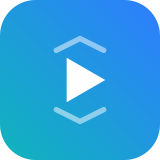
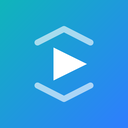
Use the real Play Store artwork for the app page
Replaces the plain phone screenshots with the styled Play listing assets:
the 1024x500 feature graphic as the banner, the seven captioned phone frames,
the 512px app icon, and two 10-inch tablet frames.

Everything is converted to WebP at display size — the whole gallery is 212 KB
instead of ~12 MB of source PNGs, so the page loads instantly.

Also folds in the download quality picker (a styled frame existed for it) and
adds a short tablet section.

Claude-Session: https://claude.ai/code/session_01Rd4wjgU9LcgQMjR3yeLKaY

diff --git a/README.md b/README.md
@@ -1,11 +1,11 @@
 <div align="center">
 
-<img src="screenshots/icon.png" width="112" alt="Scrollr">
+<img src="screenshots/banner.webp" alt="Scrollr — Browse · Watch · Download" width="100%">
 
 # Scrollr
 
-**A video-first Android browser.** Browse, find every video on a page,
-watch them as a swipeable reel, and save what you want.
+**A video-first Android browser.** Browse any site, find every video on the page,
+watch them as a swipeable reel, and download what you want.
 
 [![Get it on Google Play](https://img.shields.io/badge/Google_Play-Install-2E7DFF?style=for-the-badge&logo=googleplay&logoColor=white)](https://play.google.com/store/apps/details?id=com.scrollr)
 [![Join the testers group](https://img.shields.io/badge/Testers_Group-Join_first-0FB5BA?style=for-the-badge&logo=google&logoColor=white)](https://groups.google.com/g/scrollr)
@@ -14,90 +14,107 @@ watch them as a swipeable reel, and save what you want.
 
 ---
 
-## Scrollr is currently in closed testing
+## Scrollr is in closed testing
 
-The app is not public yet. To install it you have to be on the tester list, and
+The app isn't public yet. To install it you have to be on the tester list, and
 **joining the Google Group is what puts you on it.**
 
 > ### Two steps, in this order
 >
-> **1. Join the group → <https://groups.google.com/g/scrollr>**
-> Click **Join group**. Use the same Google account you use on your phone's Play Store.
+> **1 — Join the group:** <https://groups.google.com/g/scrollr>
+> Click **Join group**, using the same Google account your phone's Play Store uses.
 >
-> **2. Then open the Play Store link → <https://play.google.com/store/apps/details?id=com.scrollr>**
+> **2 — Then open Play:** <https://play.google.com/store/apps/details?id=com.scrollr>
 > Install as normal.
 
-If step 2 says the app **isn't available** or shows a 404, it is almost always one of these:
+If Play says the app isn't available, it's almost always one of these:
 
 | What you see | What it means |
 |---|---|
 | "Item not found" / 404 | You opened the Play link before joining the group |
-| Play shows a different account | Switch to the account that joined the group |
-| Still not showing after joining | Google can take a little while to sync — give it up to a few hours |
+| Play is on a different account | Switch to the account that joined the group |
+| Still missing after joining | Google can take a while to sync — give it a few hours |
+
+---
+
+## A look at it
+
+<div align="center">
+
+<img src="screenshots/02_browse.webp" width="240" alt="Browse anything — a full, fast web browser built in">
+<img src="screenshots/04_found.webp" width="240" alt="Finds every video — Scrollr detects all videos on any page">
+<img src="screenshots/01_reels.webp" width="240" alt="Watch reels — endless short videos in one smooth feed">
+
+<img src="screenshots/05_download.webp" width="240" alt="Download fast — save any video at blazing speed">
+<img src="screenshots/06_quality.webp" width="240" alt="Pick your quality before downloading">
+<img src="screenshots/03_dark.webp" width="240" alt="Dark mode, always — easy on your eyes day or night">
+
+</div>
 
 ---
 
 ## What it does
 
 Most browsers treat video as just another element on the page. Scrollr treats it as
-the point. It watches every page you open, collects the videos it finds, and gives you
-somewhere to actually watch them.
+the point.
 
-<div align="center">
-
-| Browse | Found | Library | Options |
-|:--:|:--:|:--:|:--:|
-| <img src="screenshots/01-browser.jpg" width="200"> | <img src="screenshots/02-found.jpg" width="200"> | <img src="screenshots/03-history.jpg" width="200"> | <img src="screenshots/04-menu.jpg" width="200"> |
-
-</div>
-
-### Find videos automatically
-Pages are scanned as you browse, and anything playable is collected into **Found** —
-per tab, so results from different sites never mix. Streams that a page hides behind its
-own player get resolved too. There is an **Extract All** button when you want to sweep a
-listing page in one go, and a floating button that catches media the page loads quietly
-in the background.
+### Finds every video, by itself
+Pages are scanned as you browse and anything playable lands in **Found** — kept per tab,
+so results from different sites never mix. Streams a page hides behind its own player get
+resolved too. **Extract All** sweeps a whole listing page at once, and a floating button
+catches media the page loads quietly in the background.
 
 ### Watch them as a reel
-**Reel** turns everything a tab found into a vertical, swipeable feed. Videos buffer
-ahead so swiping is instant.
 
-- **Hold anywhere** on the video for 2× speed, release to go back to normal
-- **Double-tap** the left or right side to jump 10 seconds
+<img src="screenshots/07_fullscreen.webp" width="220" align="right" alt="Full-screen reels — swipe through a smooth vertical feed">
+
+**Reel** turns a tab's finds into a full-screen vertical feed that buffers ahead, so
+swiping is instant.
+
+- **Hold anywhere** for 2× speed — release to go back to normal
+- **Double-tap** either side to jump 10 seconds
 - **Skip watched** hides anything you've already seen
 - **Shuffle all tabs** mixes every tab's finds into one feed
-- **Quality**: Auto, High (1080p), Standard (720p), or Data saver — a ceiling, never a
+- **Quality**: Auto, High (1080p), Standard (720p) or Data saver — a ceiling, never a
   demand, so a video that only exists in 4K still plays on Data saver
 
-### Download and keep
-Save direct MP4, HLS and DASH streams, with a quality picker when a stream offers several.
-The downloader splits a file across **up to 32 parallel parts**, so large videos come down
-fast, and it keeps running in the background.
+<br clear="right">
 
-### An offline reel too
-Downloads get their own vertical swipe feed, exactly like the online one — so everything
-you've saved is watchable in the same way, with no other app involved.
+### Download fast, watch offline
+Save direct MP4, HLS and DASH streams, choosing the resolution when a video offers
+several. The downloader splits each file across **up to 32 parallel parts**, so large
+videos come down quickly, and it keeps going in the background.
 
-### Block ads properly
-A full Adblock Plus / uBlock-style network engine, not a host blocklist — resource types,
-first vs. third party, exception rules and per-site scoping are all honoured. It runs
-**114,000+ active rules** from EasyList, EasyPrivacy, AdGuard Mobile, Fanboy and malware
-lists, and you can see exactly what is loaded under **Settings ▸ Ad-block filters**.
+Your downloads then get **their own vertical reel** — everything you've saved is
+watchable the same way, with no other app involved.
+
+### Blocks ads properly
+A full Adblock Plus / uBlock-style network engine, not just a host blocklist: resource
+types, first vs. third party, exception rules and per-site scoping are all honoured. It
+runs **114,000+ active rules** from EasyList, EasyPrivacy, AdGuard Mobile, Fanboy and
+malware lists, and you can see exactly what's loaded under **Settings ▸ Ad-block filters**.
 
 ### Browse the way you want
 - **Tabs**, with a separate incognito space that keeps nothing when you leave it
-- **Search engine per mode** — 10 presets, or paste any search URL. Normal and incognito
-  keep their own, so choosing Google for browsing doesn't drag it into incognito
+- **Search engine per mode** — 10 presets or any search URL you paste. Normal and
+  incognito keep their own, so choosing Google for browsing doesn't drag it into incognito
 - **Bookmarks and history**, swipe to delete with undo
 - **Dark and light**, plus an AMOLED-black incognito look
 - Desktop site, HTTPS-only, find in page, clear on exit, quick tab switch
+
+### Built for tablets too
+
+<div align="center">
+<img src="screenshots/tablet_reels.webp" width="380" alt="Scrollr reel view on a 10-inch tablet">
+<img src="screenshots/tablet_found.webp" width="380" alt="Scrollr Found screen on a 10-inch tablet">
+</div>
 
 ---
 
 ## Privacy
 
-- **No account. No sign-up. No analytics, no tracking, no telemetry.**
-- Bookmarks, history, downloads and settings stay on your device.
+- **No account, no sign-up, no analytics, no tracking, no telemetry.**
+- Bookmarks, history, downloads and settings never leave your device.
 - Incognito keeps a completely separate tab space and discards it on exit.
 - Crash reports are written to a **local file** you can read under
   **Settings ▸ Crash log** — nothing is ever sent anywhere.
@@ -114,23 +131,26 @@ lists, and you can see exactly what is loaded under **Settings ▸ Ad-block filt
 
 ---
 
-## Reporting a bug
+## Found a bug?
 
-Please [open an issue](https://github.com/HelpersforEverybody/scrollr/issues) with:
+[Open an issue](https://github.com/HelpersforEverybody/scrollr/issues) with:
 
-1. What you did and what happened instead
+1. What you did, and what happened instead
 2. Your Android version and phone model
-3. **If it crashed:** open **Settings ▸ Crash log**, tap **Copy all**, and paste it in.
-   That single step turns a guess into a fix.
+3. **If it crashed:** open **Settings ▸ Crash log**, tap **Copy all**, and paste it in —
+   that one step turns a guess into a fix
 
-Feedback and feature requests are welcome in the [testers group](https://groups.google.com/g/scrollr) too.
+Feedback and feature requests are welcome in the
+[testers group](https://groups.google.com/g/scrollr) too.
 
 ---
 
 <div align="center">
 
+<img src="screenshots/icon.png" width="72" alt="">
+
 **[Join the group](https://groups.google.com/g/scrollr)** → **[Install from Play](https://play.google.com/store/apps/details?id=com.scrollr)**
 
-<sub>This repository is the app's home page and issue tracker. The source code is not published here.</sub>
+<sub>This repository is the app's home page and issue tracker. The source code isn't published here.</sub>
 
 </div>
